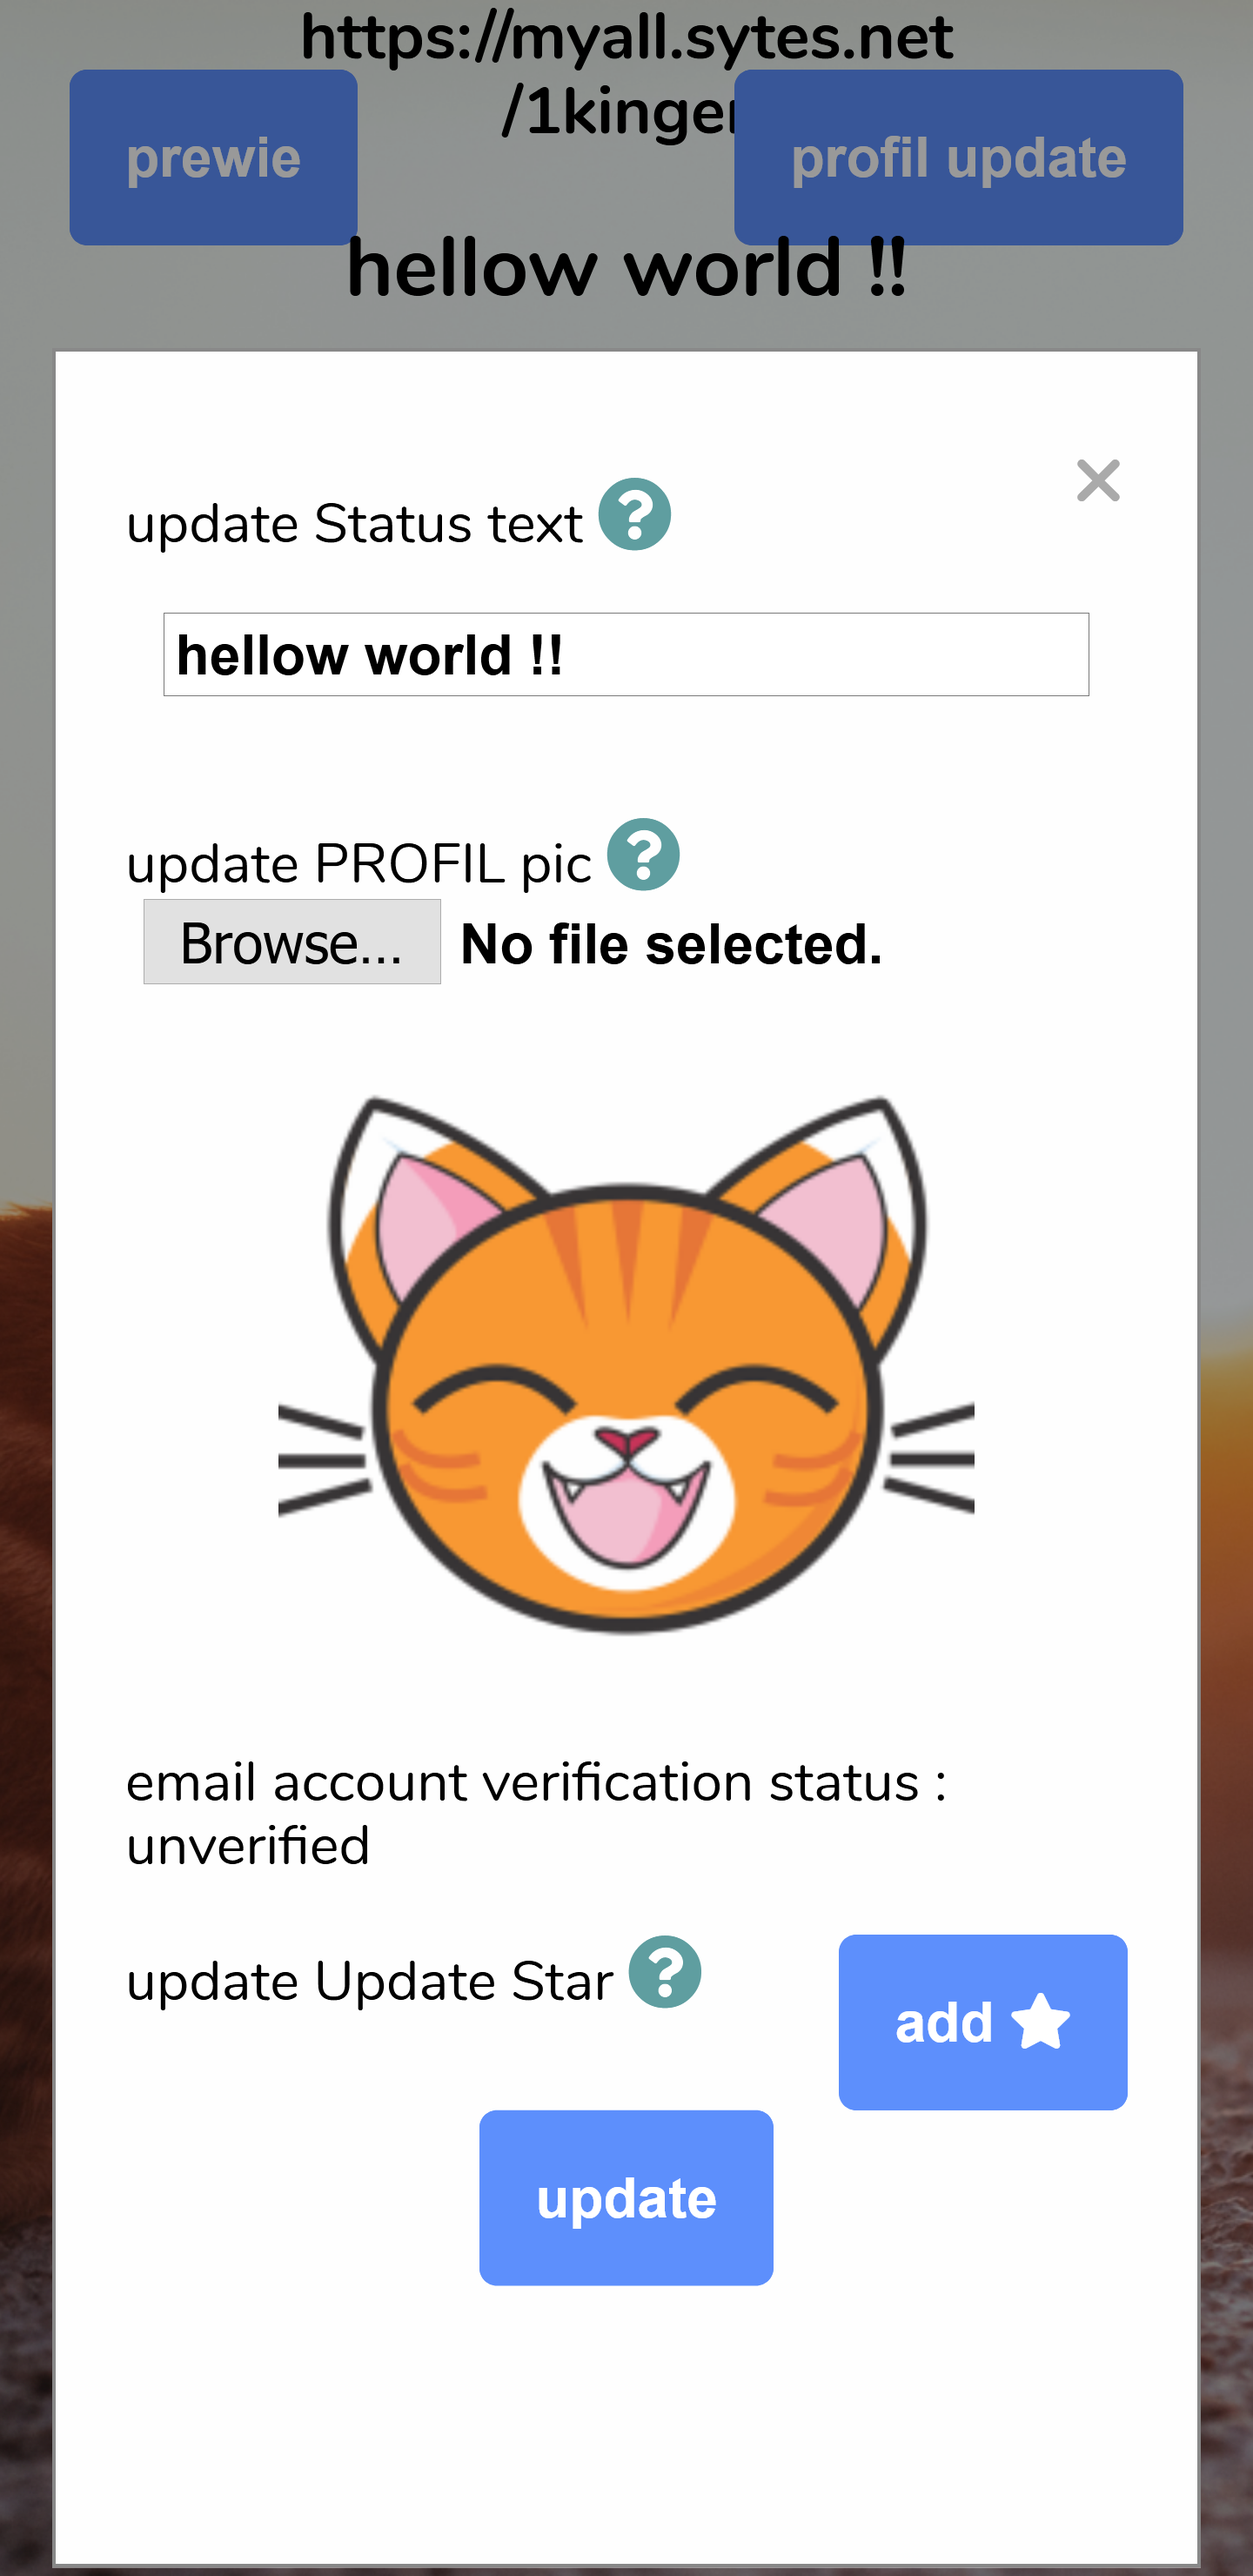
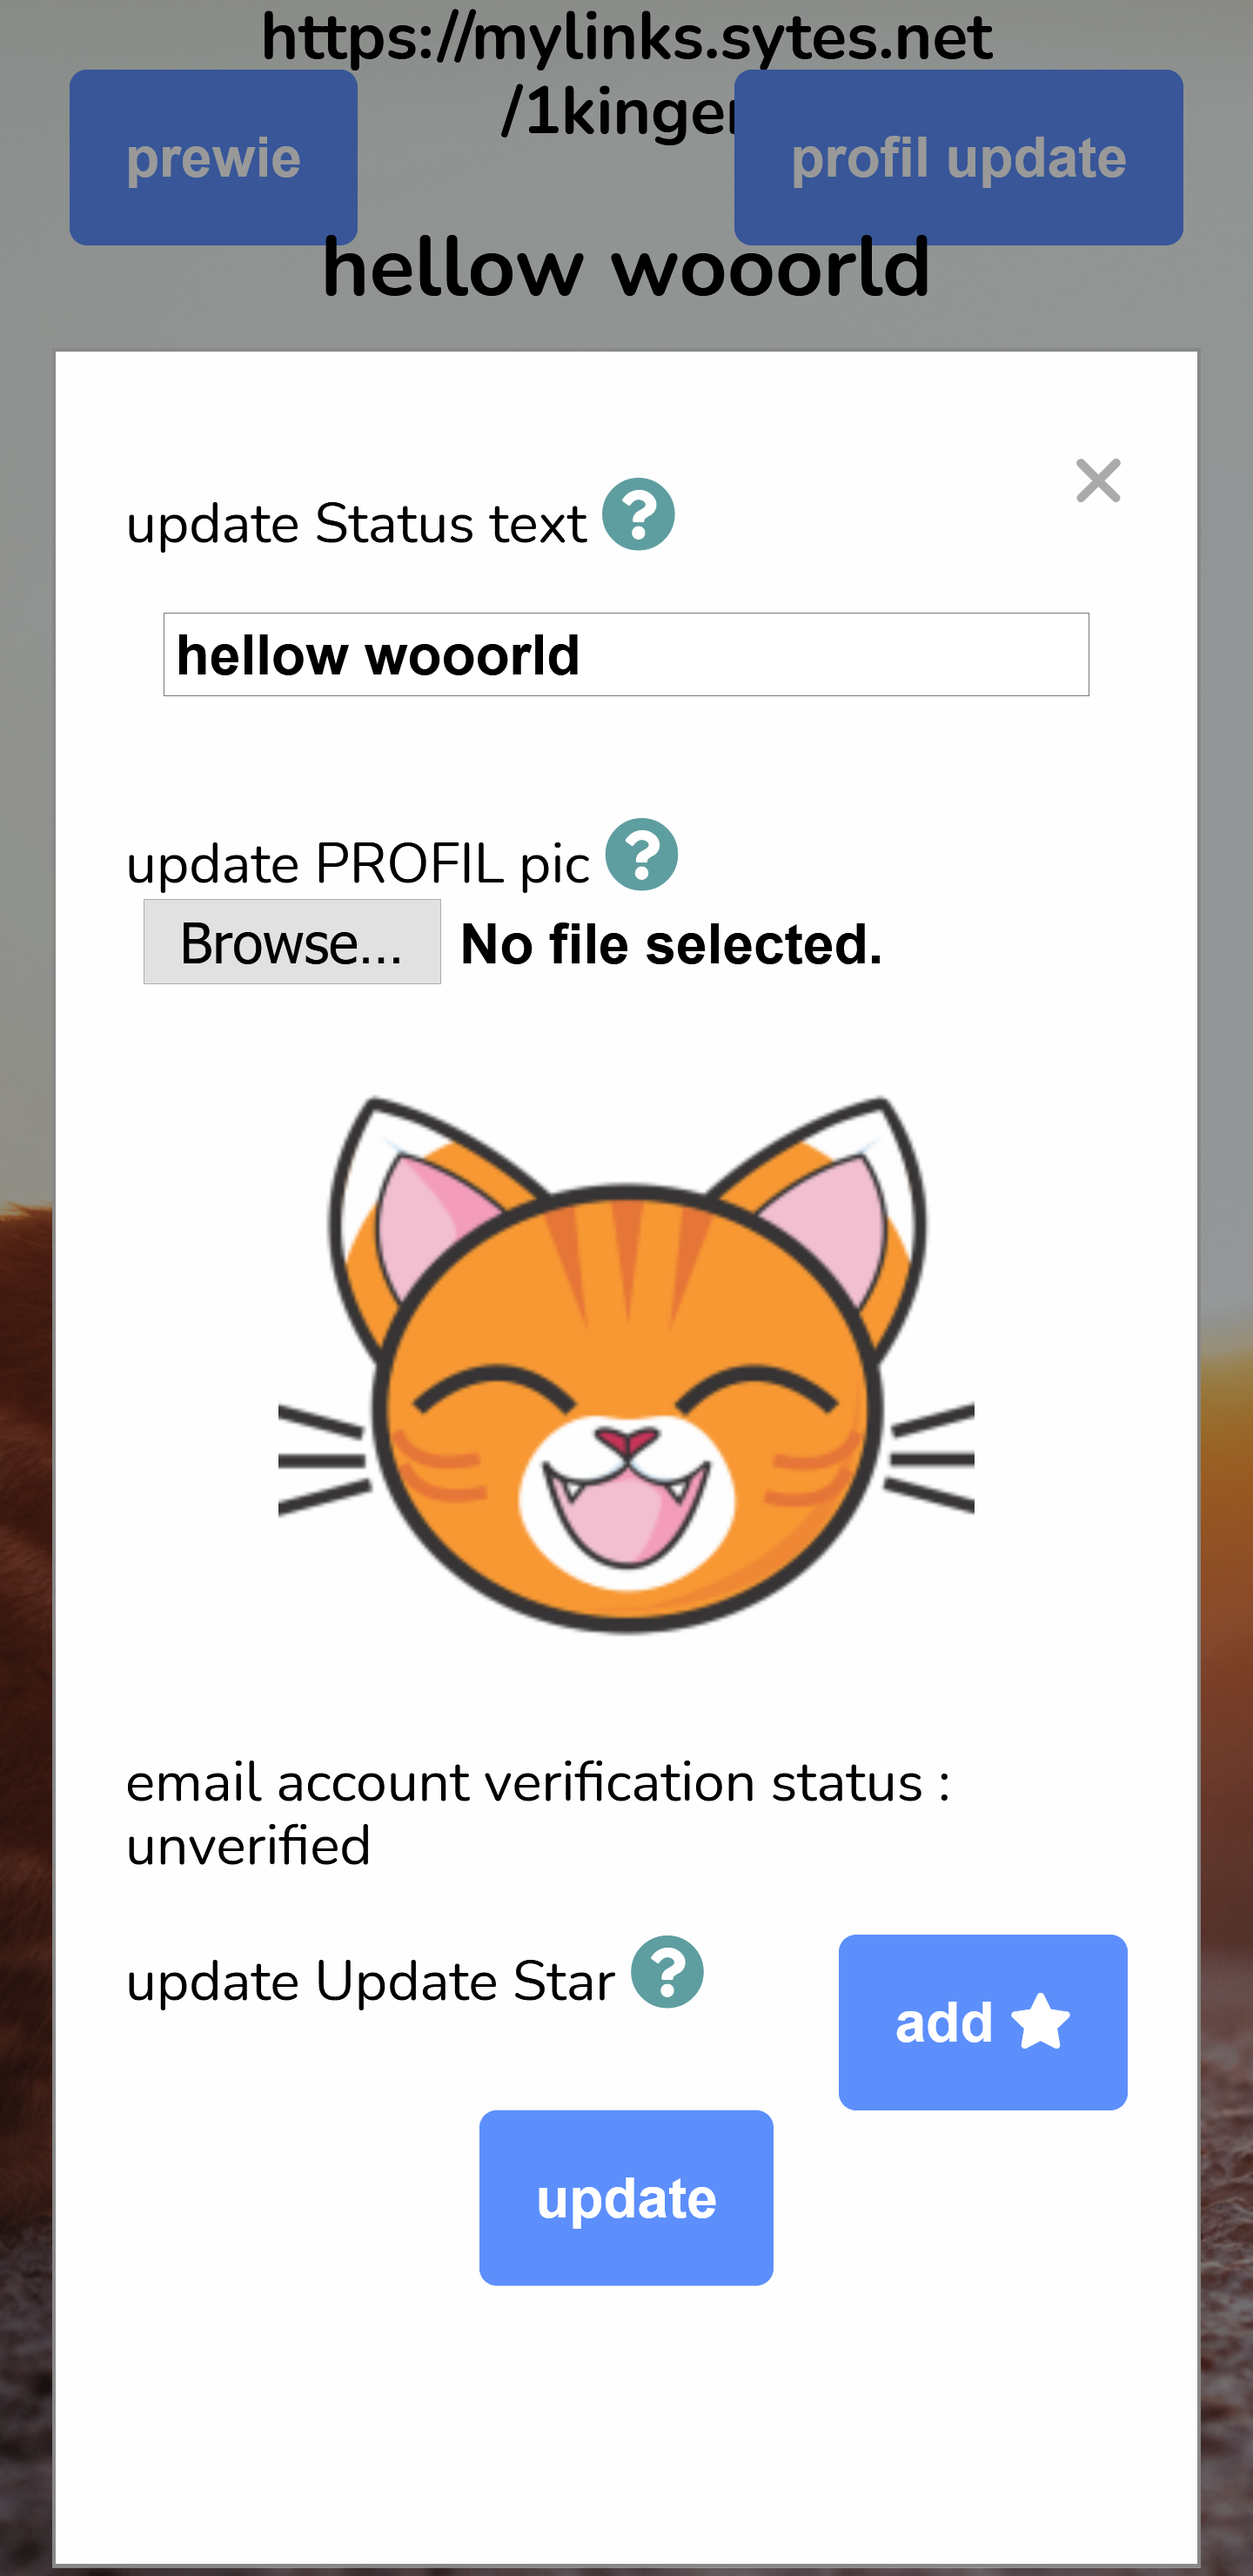
.

diff --git a/WEB/JS/index.js b/WEB/JS/index.js
@@ -1,6 +1,4 @@
- // Your web app's Firebase configuration
-  // For Firebase JS SDK v7.20.0 and later, measurementId is optional
-  var firebaseConfig = {
+   var firebaseConfig = {
     apiKey: "AIzaSyBNjmQnhNhtKS3Fl-S01bPLapvqtjFN7kE",
     authDomain: "myall-proekt.firebaseapp.com",
     databaseURL: "https://myall-proekt.firebaseio.com",
@@ -12,8 +10,7 @@
   };
   // Initialize Firebase
   firebase.initializeApp(firebaseConfig);
-///  firebase.analytics();
-  
+
 
 var MyallBase = firebase.database().ref();
 var ErorINFO=document.getElementById("ErorTXT");
@@ -59,7 +56,7 @@ MyallBase.child(USERdef).once("value")
   .then(function(snapshot) {
      CekDATA = snapshot.val();
 	 
-	if(CekDATA!=undefined){userNAME=CekDATA["ID"]; W=CekDATA[userNAME]; puniLokalno();
+	if(CekDATA!=undefined){userNAME=CekDATA["ID"]; W=CekDATA[userNAME]; puniLokalno();  Turi_ACT_email(CekDATA["email"]);
   document.getElementById("user_para").innerHTML = "https://mylinks.sytes.net<br>/" + userNAME;}
 	else{ADDni_novUSER(a);}
   });	 
@@ -128,7 +125,7 @@ firebase.auth().createUserWithEmailAndPassword(email, password).catch(function(e
   var errorCode = error.code;
   var errorMessage = error.message;
   // ...
-});
+}); setTimeout(SND_vrf,3000);
 
   }else{
   if(Par[0]!=true){TXTO="heyy dude take other username..";}else
@@ -137,8 +134,8 @@ firebase.auth().createUserWithEmailAndPassword(email, password).catch(function(e
 ErorINFO.innerHTML=TXTO;}}
 
 
-function SND_vrf(a){var user = firebase.auth().currentUser;
-	if(a==0){
+function SND_vrf(){var user = firebase.auth().currentUser;
+	
 user.sendEmailVerification().then(function() {
   // Email sent.
   
@@ -148,9 +145,23 @@ user.sendEmailVerification().then(function() {
 });
 
 }
+function Turi_ACT_email(a){document.getElementById("usr_email").innerHTML="( "+a+".com )";}
+function CHK_vrf(Status_ver){  var user = firebase.auth().currentUser;
+                                var BTN_ver=document.getElementById("re_snd_email"); BTN_ver.style="width: auto;";
+ if(Status_ver){
+	 // da se trgne resend button
+BTN_ver.style.display="none";
+BTN_ver.onclick=function(){};
+BTN_ver.innerHTML="";
+ }else{
+BTN_ver.style.display="inline-block";
+BTN_ver.onclick=function(){SND_vrf();BTN_ver.innerHTML="email alredy send ..";BTN_ver.onclick=function(){};};
+BTN_ver.innerHTML="verification email send ";}
+ 
+ 
+if(user.emailVerified) {
+if(!Status_ver){MyallBase.child("USER/"+SIFRA+"/"+userNAME+"/PROFIL/REG/veri").set(true);}}
 
-if (user.emailVerified) {
-if(a!=true){MyallBase.child("USER/"+SIFRA+"/"+userNAME+"/PROFIL/REG/veri").set(true);}}
 }
 
 function Aktiv(a,n){ b=a.children[0];
@@ -387,6 +398,9 @@ MyallBase.child("WEBuser/"+userNAME+"/PROFIL/STATUS/AKTIV").set(false);
 
 function GETaccSTATUS(a){if(a!=SW.checked ){SW.click();}}
 
+function BTN_za_SND_M(a){
+	
+}
 
 function ST_svg(){ 
 if(parCAT==0){
@@ -400,12 +414,13 @@ if(parCAT==0){
 function puniLokalno(){
 updZvzda(parseInt(W["PROFIL"]["RANK"]));
 E_status=W["PROFIL"]["REG"]["veri"];
-SND_vrf(E_status);
+
+CHK_vrf(E_status);
 
 
 fotoLINK=W["PROFIL"]["FOTO"]["Flink"];
 if(fotoLINK==false){
-document.getElementById("PROFI_pic").src="../img/deflat.png";
+document.getElementById("PROFI_pic").src="img/deflat.png";
 }else{document.getElementById("PROFI_pic").src=fotoLINK;}
 	
 for(i=0;i<4;i++){
@@ -473,7 +488,7 @@ function Loadni_noviot(a){
 MyallBase.child("USER/"+a).once("value")
   .then(function(snapshot) {
          Freski = snapshot.val();
-userNAME=Freski["ID"];  W=Freski[userNAME]; puniLokalno();
+userNAME=Freski["ID"];  W=Freski[userNAME]; puniLokalno(); Turi_ACT_email(Freski["email"]);
  document.getElementById("user_para").innerHTML = "https://mylinks.sytes.net<br>/" + userNAME; 
   });	 
 }

diff --git a/index.html b/index.html
@@ -1,5 +1,5 @@
 <!DOCTYPE html><html><head><meta charset="UTF-8"><meta name="viewport" content="width=device-width, initial-scale=1, shrink-to-fit=no">
-<title>myall</title><link href="https://fonts.googleapis.com/css?family=Nunito:400,600,700" rel="stylesheet">
+<title>mylinks</title><link href="https://fonts.googleapis.com/css?family=Nunito:400,600,700" rel="stylesheet">
   <link rel="stylesheet" href="WEB/CSS/style.css"/>
   <link rel="stylesheet" href="WEB/NVG/css/style.css" />
   <link rel="stylesheet" href="https://cdnjs.cloudflare.com/ajax/libs/normalize/5.0.0/normalize.min.css">
@@ -9,7 +9,7 @@
 </head><body>
 
   <div id="login_div" class="main-div">
-   <h3 id="TiTle" style="text-align:center;position: relative;" >Welcome to myall </h3>
+   <h3 id="TiTle" style="text-align:center;position: relative;" >Welcome to mylinks </h3>
   <img src="img/MYlinks.png" style="display: block;border-radius:45px;margin-left: auto;margin-right: auto;width: 73%;margin-top:-50px;max-width: 600px;" >
   <p id="ErorTXT" style="color:red;margin: 0px;text-align: center;"></p>
   <div id="Lin">
@@ -243,8 +243,9 @@
 <input type="text" id="PROFIL_status" style="width: 90%;margin: auto;display: table-caption;" ><br><br>
 
 <p> update PROFIL pic <i style="color: cadetblue;font-size: large;" class="fas fa-question-circle" onclick="STAR_info(1);"></i><input type="file" value="upload" id="fileButon" style="width: auto;float: right;position: inherit;"></p>
-<img id="wew" src="../img/deflat.png" style="width: auto;margin: auto;display:table-caption;" >
-<p> email account  verification status   : <span id="E_status"></span></p>
+<img id="wew" src="img/deflat.png" style="width: auto;margin: auto;display:table-caption;">
+<p id="usr_email"></p>
+<p> email account  verification status   : <span id="E_status"></span> <button id="re_snd_email">re send email</button></p>
 <p> update Update Star <i style="color: cadetblue;font-size: large;" class="fas fa-question-circle" onclick="STAR_info(2);"></i><button type="button"  onclick="BYproces();" style="width: auto;float: right;position: inherit;">add <i class='fas fa-star'></i></button></p>
 
 <p id="info_star"></p>	 
@@ -264,18 +265,18 @@
 	
 
 <!-- The core Firebase JS SDK is always required and must be listed first -->
-<script src="https://www.gstatic.com/firebasejs/7.21.0/firebase-app.js"></script>
+<script src="https://www.gstatic.com/firebasejs/8.2.1/firebase-app.js"></script>
 
 <!-- TODO: Add SDKs for Firebase products that you want to use
      https://firebase.google.com/docs/web/setup#available-libraries -->
-<script src="https://www.gstatic.com/firebasejs/7.21.0/firebase-analytics.js"></script>
+<script src="https://www.gstatic.com/firebasejs/8.2.1/firebase-analytics.js"></script>
 
 
 <!-- Add additional services that you want to use -->
-<script src="https://www.gstatic.com/firebasejs/7.21.0/firebase-auth.js"></script>
+<script src="https://www.gstatic.com/firebasejs/8.2.1/firebase-auth.js"></script>
 
-<script src="https://www.gstatic.com/firebasejs/7.21.0/firebase-database.js"></script>
-<script src="https://www.gstatic.com/firebasejs/7.21.0/firebase-storage.js"></script>
+<script src="https://www.gstatic.com/firebasejs/8.2.1/firebase-database.js"></script>
+<script src="https://www.gstatic.com/firebasejs/8.2.1/firebase-storage.js"></script>
 
 <script src='def/definiton.js' type='text/javascript'></script>
   <script src="WEB/JS/index.js"></script>

diff --git a/404.html b/404.html
@@ -172,8 +172,8 @@
 
 
 <!-- The core Firebase JS SDK is always required and must be listed first -->
-<script src="https://www.gstatic.com/firebasejs/7.21.0/firebase-app.js"></script>
-<script src="https://www.gstatic.com/firebasejs/7.21.0/firebase-database.js"></script>
+<script src="https://www.gstatic.com/firebasejs/8.2.1/firebase-app.js"></script>
+<script src="https://www.gstatic.com/firebasejs/8.2.1/firebase-database.js"></script>
 
 
 <script src='def/definiton.js' type='text/javascript'></script>

diff --git a/CLIENT/JS/index.js b/CLIENT/JS/index.js
@@ -1,5 +1,3 @@
-  // Your web app's Firebase configuration
-  // For Firebase JS SDK v7.20.0 and later, measurementId is optional
   var firebaseConfig = {
     apiKey: "AIzaSyBNjmQnhNhtKS3Fl-S01bPLapvqtjFN7kE",
     authDomain: "myall-proekt.firebaseapp.com",
@@ -12,6 +10,7 @@
   };
   // Initialize Firebase
   firebase.initializeApp(firebaseConfig);
+
   
 var USER=window.location.href.slice(26);var MyallBase = firebase.database().ref();
 
